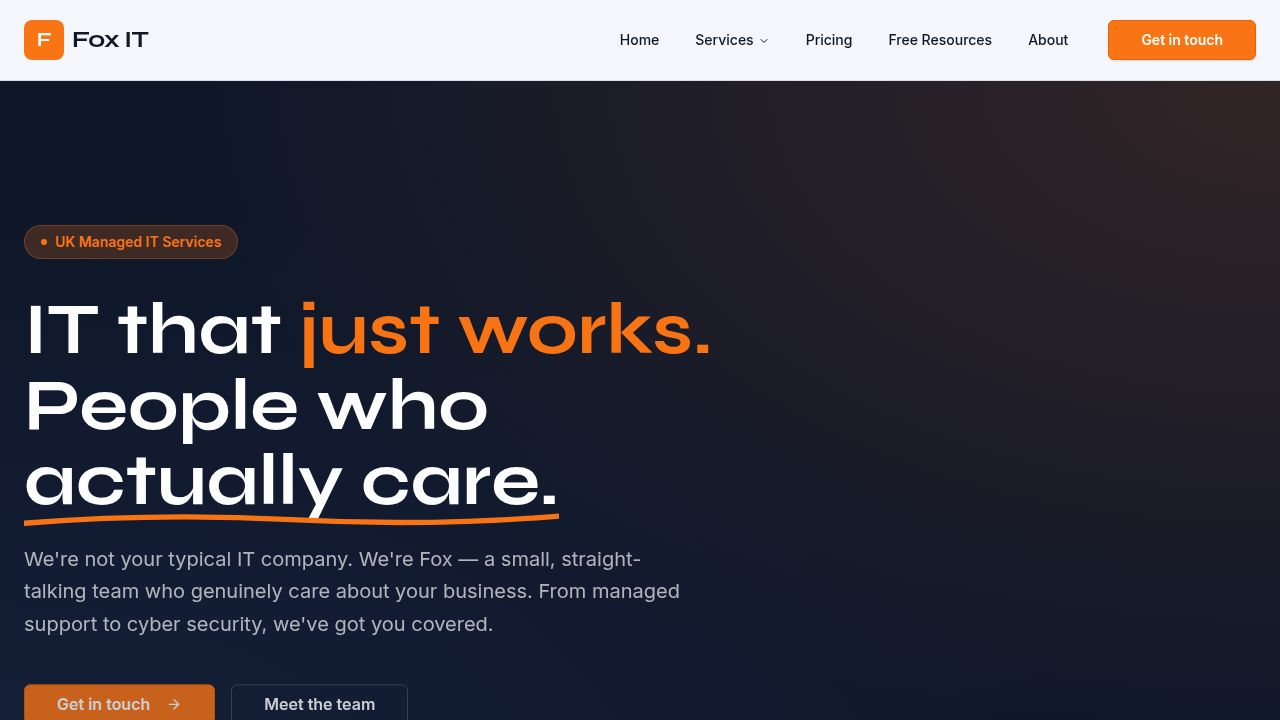
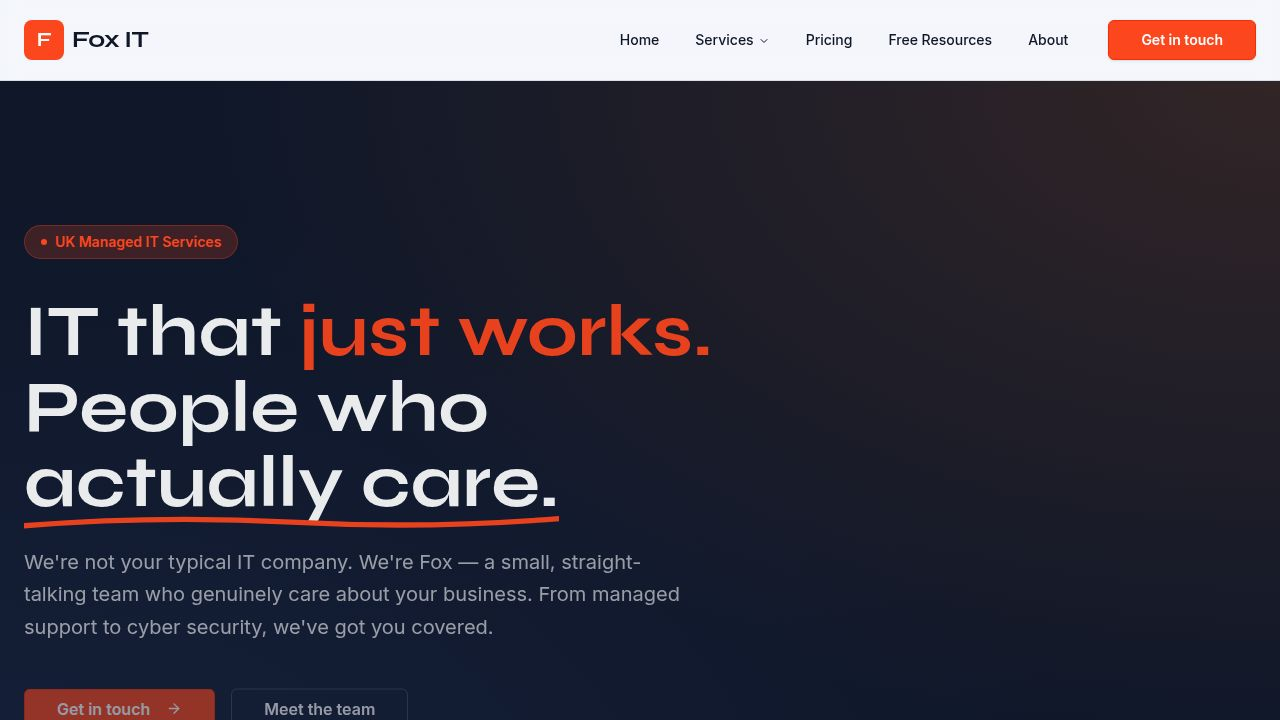
Update website colors to match brand orange
Updates CSS variables and a component in Home.tsx to use the new brand orange color (#FB461F), replacing all instances of the previous orange.

Replit-Commit-Author: Agent
Replit-Commit-Session-Id: d4666b6a-bc87-43b7-97c1-4af2a0a47eb2
Replit-Commit-Checkpoint-Type: full_checkpoint
Replit-Commit-Event-Id: c6cb6478-bad7-4327-93f5-57d4a89baf11
Replit-Commit-Screenshot-Url: https://storage.googleapis.com/screenshot-production-us-central1/4a0f0edd-f014-4669-b7ea-3f03c762c0c0/d4666b6a-bc87-43b7-97c1-4af2a0a47eb2/69eoqSM
Replit-Helium-Checkpoint-Created: true

diff --git a/artifacts/fox-website/src/index.css b/artifacts/fox-website/src/index.css
@@ -81,7 +81,7 @@
   --foreground: 222 47% 11%;
   --border: 222 20% 88%;
   --input: 222 20% 88%;
-  --ring: 25 95% 53%;
+  --ring: 11 97% 55%;
 
   /* Card */
   --card: 0 0% 100%;
@@ -92,19 +92,19 @@
   --sidebar: 0 0% 100%;
   --sidebar-foreground: 222 47% 11%;
   --sidebar-border: 222 20% 88%;
-  --sidebar-primary: 25 95% 53%;
+  --sidebar-primary: 11 97% 55%;
   --sidebar-primary-foreground: 0 0% 100%;
   --sidebar-accent: 222 47% 95%;
   --sidebar-accent-foreground: 222 47% 11%;
-  --sidebar-ring: 25 95% 53%;
+  --sidebar-ring: 11 97% 55%;
 
   /* Popover */
   --popover: 0 0% 100%;
   --popover-foreground: 222 47% 11%;
   --popover-border: 222 20% 88%;
 
-  /* Primary — Electric Orange #f97316 */
-  --primary: 25 95% 53%;
+  /* Primary — Fox ITC Orange #FB461F */
+  --primary: 11 97% 55%;
   --primary-foreground: 0 0% 100%;
 
   /* Secondary — Deep Navy #0f172a */
@@ -120,7 +120,7 @@
   --destructive: 0 84% 60%;
   --destructive-foreground: 0 0% 100%;
 
-  --chart-1: 25 95% 53%;
+  --chart-1: 11 97% 55%;
   --chart-2: 222 47% 25%;
   --chart-3: 142 71% 45%;
   --chart-4: 258 90% 66%;
@@ -134,12 +134,12 @@
   --shadow-xl: 0 20px 25px -5px rgba(0,0,0,0.1), 0 8px 10px -6px rgba(0,0,0,0.1);
   --shadow-2xl: 0 25px 50px -12px rgba(0,0,0,0.25);
 
-  --primary-border: hsl(25 95% 46%);
+  --primary-border: hsl(11 97% 48%);
   --secondary-border: hsl(222 47% 8%);
   --muted-border: hsl(222 20% 85%);
   --accent-border: hsl(222 20% 85%);
   --destructive-border: hsl(0 84% 53%);
-  --sidebar-primary-border: hsl(25 95% 46%);
+  --sidebar-primary-border: hsl(11 97% 48%);
   --sidebar-accent-border: hsl(222 20% 85%);
 }
 
@@ -154,7 +154,7 @@
   --foreground: 222 20% 94%;
   --border: 222 25% 20%;
   --input: 222 25% 20%;
-  --ring: 25 95% 53%;
+  --ring: 11 97% 55%;
 
   --card: 222 40% 13%;
   --card-foreground: 222 20% 94%;
@@ -163,17 +163,17 @@
   --sidebar: 222 40% 11%;
   --sidebar-foreground: 222 20% 94%;
   --sidebar-border: 222 25% 20%;
-  --sidebar-primary: 25 95% 53%;
+  --sidebar-primary: 11 97% 55%;
   --sidebar-primary-foreground: 0 0% 100%;
   --sidebar-accent: 222 35% 16%;
   --sidebar-accent-foreground: 222 20% 94%;
-  --sidebar-ring: 25 95% 53%;
+  --sidebar-ring: 11 97% 55%;
 
   --popover: 222 40% 13%;
   --popover-foreground: 222 20% 94%;
   --popover-border: 222 25% 22%;
 
-  --primary: 25 95% 53%;
+  --primary: 11 97% 55%;
   --primary-foreground: 0 0% 100%;
 
   --secondary: 222 20% 94%;
@@ -188,18 +188,18 @@
   --destructive: 0 72% 51%;
   --destructive-foreground: 0 0% 100%;
 
-  --chart-1: 25 95% 53%;
+  --chart-1: 11 97% 55%;
   --chart-2: 222 47% 45%;
   --chart-3: 142 71% 45%;
   --chart-4: 258 90% 66%;
   --chart-5: 0 84% 60%;
 
-  --primary-border: hsl(25 95% 46%);
+  --primary-border: hsl(11 97% 48%);
   --secondary-border: hsl(222 20% 88%);
   --muted-border: hsl(222 25% 24%);
   --accent-border: hsl(222 25% 24%);
   --destructive-border: hsl(0 72% 44%);
-  --sidebar-primary-border: hsl(25 95% 46%);
+  --sidebar-primary-border: hsl(11 97% 48%);
   --sidebar-accent-border: hsl(222 25% 22%);
 }
 

diff --git a/artifacts/fox-website/src/pages/Home.tsx b/artifacts/fox-website/src/pages/Home.tsx
@@ -136,7 +136,7 @@ export default function Home() {
                 >
                   <path
                     d="M0 6 Q75 0 150 4 Q225 8 300 2"
-                    stroke="hsl(25 95% 53%)"
+                    stroke="hsl(11 97% 55%)"
                     strokeWidth="3"
                     strokeLinecap="round"
                     fill="none"
